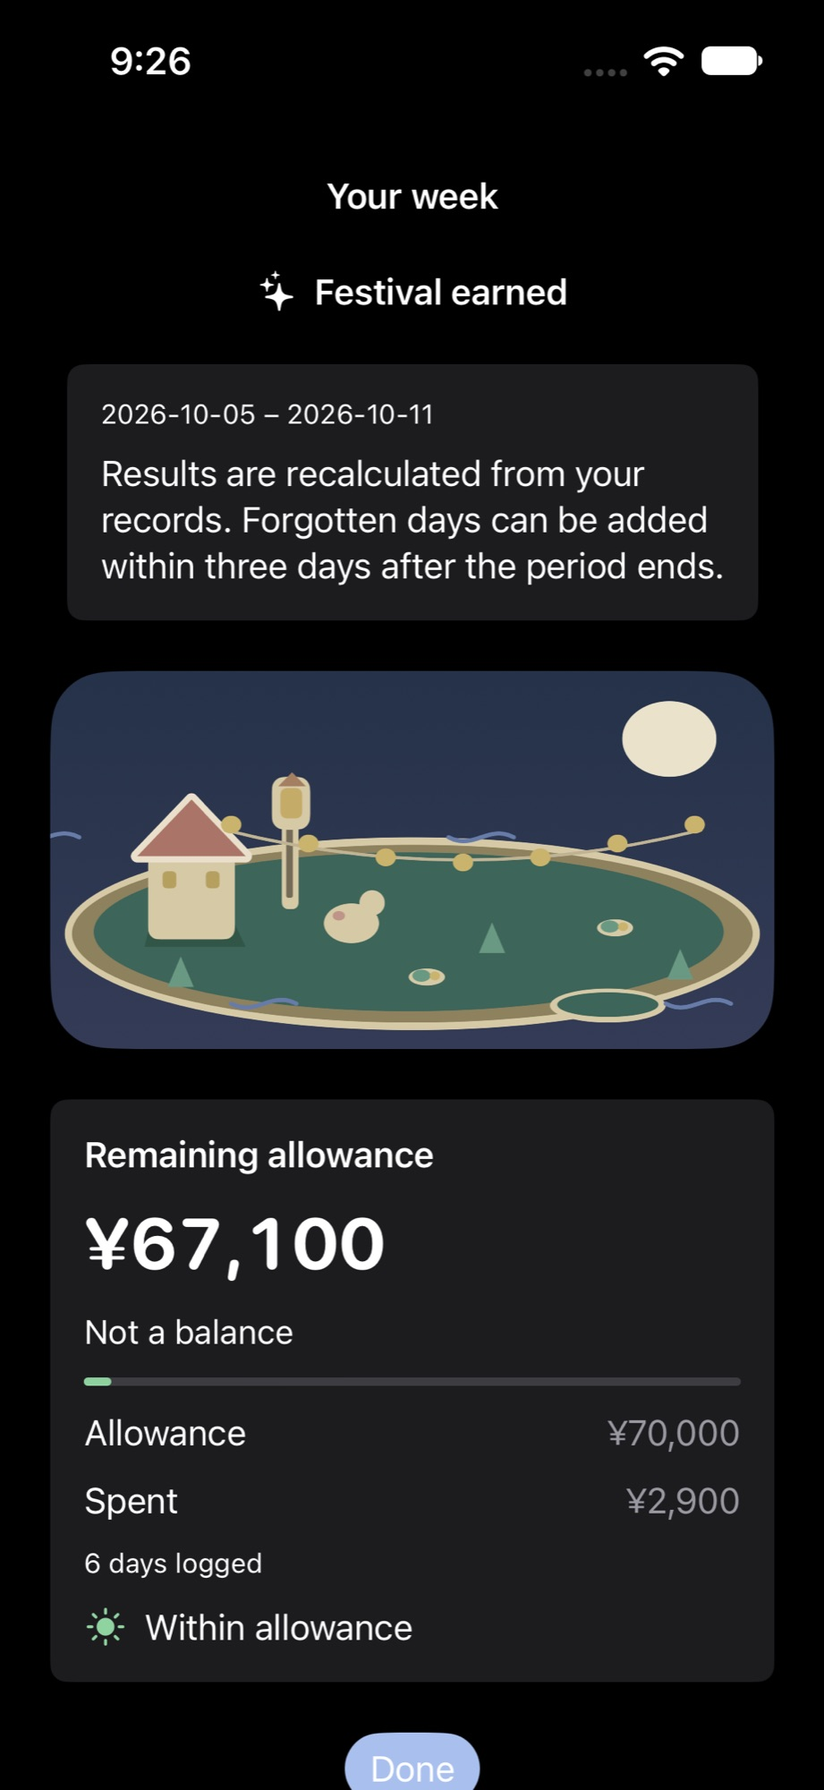
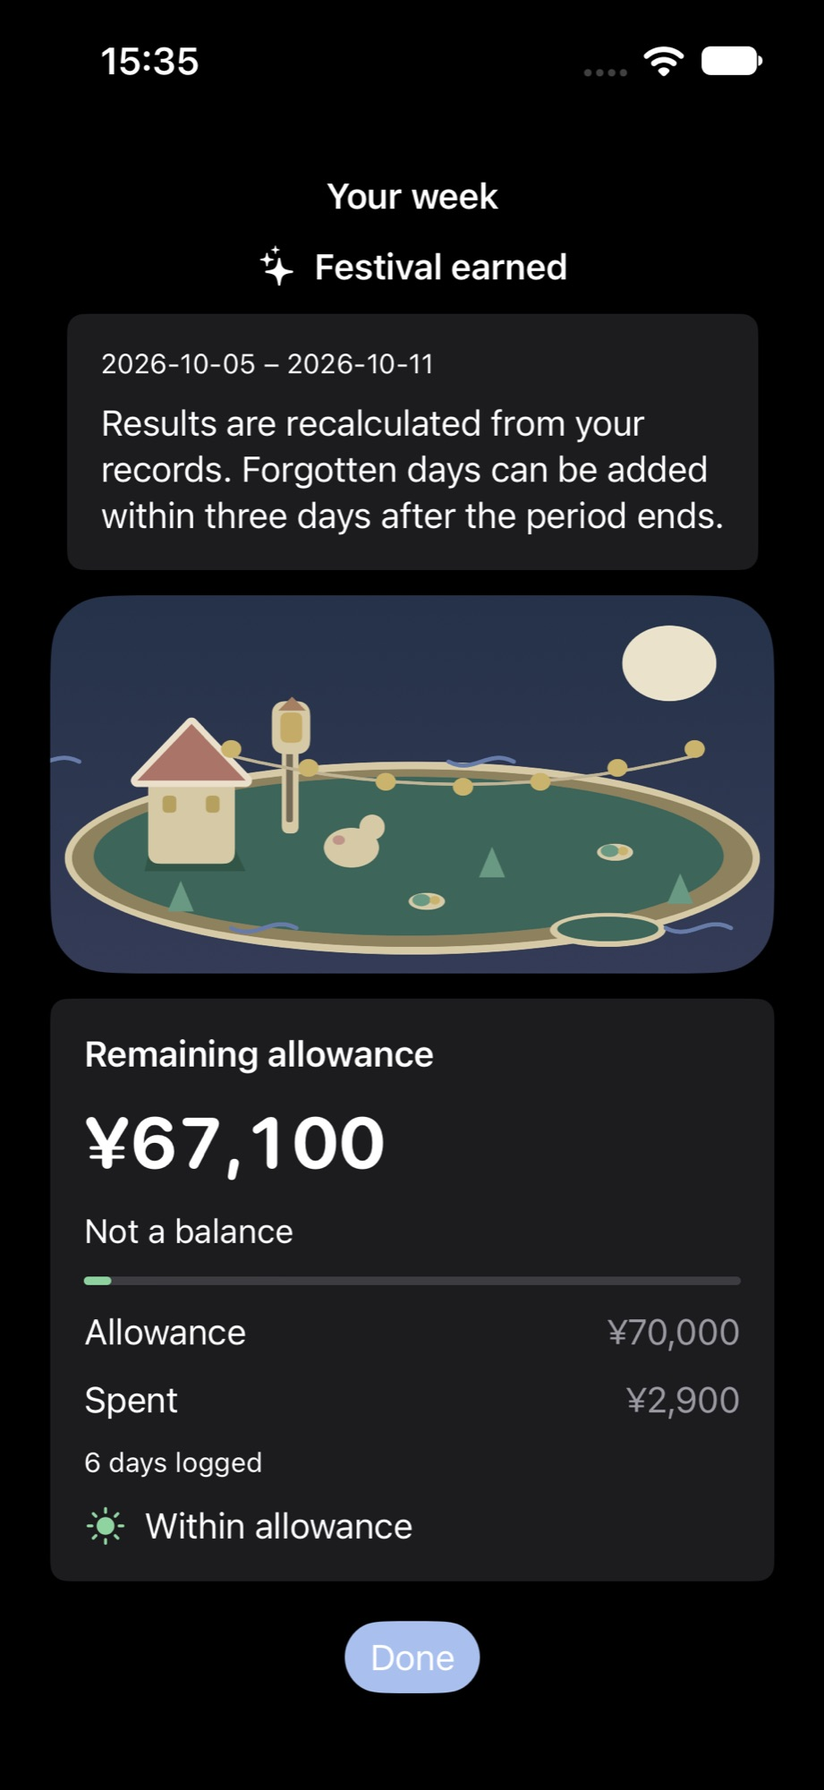
WEALTHY-C2B1-FIXED-CALENDAR: round 6 (DONE) - Result Done button inside safe area
Done on the Result screen moves into a bottom safeAreaInset with tighter
content spacing; it no longer extends under the home indicator on iPhone
15 Pro (bottom 859 -> 806 pt). New testResultDoneInsideSafeArea fails 3/3
before the fix and, with testResultAccessibilityAudit, passes 3/3 on both
simulators at default and AX3 after it. Full suites: 62/62 on iPhone 15 Pro
and iPhone 17 Pro. Refreshed the 12 Result screenshots.

diff --git a/WealthyUITests/WealthyUITests.swift b/WealthyUITests/WealthyUITests.swift
@@ -203,8 +203,8 @@ final class Cycle2aUITests: XCTestCase {
         }
     }
     @MainActor
-    func audit(_ screen: String) throws {
-            app.launchArguments = ["--cycle2a-test", "--cycle2a-seed", "-v4.language", "en", "--screen", screen]
+    func audit(_ screen: String, flags: [String] = []) throws {
+            app.launchArguments = ["--cycle2a-test", "--cycle2a-seed", "-v4.language", "en", "--screen", screen] + flags
             launchApp()
             XCTAssertTrue(app.staticTexts.firstMatch.waitForExistence(timeout: 15))
             if screen == "result" {
@@ -246,7 +246,30 @@ final class Cycle2aUITests: XCTestCase {
     @MainActor
     func testInfoAccessibilityAudit() throws { try audit("info") }
     @MainActor
-    func testResultAccessibilityAudit() throws { try audit("result") }
+    func testResultAccessibilityAudit() throws {
+        try audit("result")
+        try audit("result", flags: ["--ax3"])
+    }
+    @MainActor
+    func testResultDoneInsideSafeArea() throws {
+        // Both supported iPhone Pro simulators have a 34-point bottom safe area.
+        let bottomSafeArea: CGFloat = 34
+        for flags in [[], ["--ax3"]] {
+            app.launchArguments = ["--cycle2a-test", "--cycle2a-seed", "-v4.language", "en", "--screen", "result"] + flags
+            launchApp()
+            let done = app.buttons["Done"].firstMatch
+            XCTAssertTrue(done.waitForExistence(timeout: 15), app.debugDescription)
+            for _ in 0..<8 { if done.isHittable { break }; app.swipeUp() }
+            let frame = done.frame
+            let window = app.windows.firstMatch.frame
+            let details = "size=\(flags.isEmpty ? "default" : "AX3") button=\(frame) window=\(window) safeBottom=\(window.maxY - bottomSafeArea) hittable=\(done.isHittable)"
+            print("RESULT_DONE_FRAME \(details)")
+            XCTAssertTrue(done.isHittable, details)
+            XCTAssertTrue(window.contains(frame), details)
+            XCTAssertLessThanOrEqual(frame.maxY, window.maxY - bottomSafeArea, details)
+            app.terminate()
+        }
+    }
     @MainActor
     func testEntryAccessibilityAudit() throws { try audit("edit") }
 

diff --git a/Wealthy/Wealthy/HomeInfo.swift b/Wealthy/Wealthy/HomeInfo.swift
@@ -235,7 +235,7 @@ struct ResultView: View {
         return try? LedgerQueries.loggedDayRequirement(in: status.period)
     }
     var body: some View {
-        ScrollView { VStack(spacing: 24) {
+        ScrollView { VStack(spacing: 12) {
             Text(session.t(isMonth ? "monthResultTitle" : "weekResultTitle")).font(.headline)
             if isMonth {
                 Text(session.t(monthHeadlineKey)).font(.title2.weight(.semibold)).multilineTextAlignment(.center).foregroundStyle(.primary)
@@ -265,8 +265,11 @@ struct ResultView: View {
             }
             IslandScene(growth: resultGrowth, festivals: isMonth ? monthAreas : status.isRewardEligible ? 1 : 0, dusk: status.isOver).frame(height: 180).accessibilityHidden(true)
             AllowanceSummary(title: "remainingAllowance", status: status)
-            Button(session.t("done")) { dismiss() }.buttonStyle(.borderedProminent)
         }.padding(24) }.scrollEdgeEffectHidden(for: .bottom).accessibilityIdentifier("resultSheet")
+            .safeAreaInset(edge: .bottom) {
+                Button(session.t("done")) { dismiss() }.buttonStyle(.borderedProminent)
+                    .padding(.vertical, 12).frame(maxWidth: .infinity).background(.background)
+            }
     }
     private var monthHeadlineKey: String {
         switch outcome {

diff --git a/.ai/LAST_REPORT.md b/.ai/LAST_REPORT.md
@@ -1,75 +1,62 @@
-# Cycle 2b.1 Round 5 Report
+# Cycle 2b.1 Round 6 Report
 
 Task ID: WEALTHY-C2B1-FIXED-CALENDAR
-Status: PARTIAL
+Status: DONE
 
-Starting HEAD: `c27d7342428eae126771687cf9c3ad0a589a02fb`; branch: `codex/wealthy-c2b1-fixed-calendar`. Host: macOS 27.2, Xcode 27.2 (27B52); both simulators use iOS 27.0. The pre-existing changes to `.ai/CURRENT_TASK.md`, three `.DS_Store` files and an untracked design PDF were preserved. `5db23f0` is an ancestor of HEAD.
+Starting HEAD: `9ea1e8dd0df402a8a94f84b80f41bc9a2962a976`; branch: `codex/wealthy-c2b1-fixed-calendar`. Host: macOS 27.2, Xcode 27.2 (27B52), iOS 27.0 simulators. The existing changes to `.ai/CURRENT_TASK.md`, three `.DS_Store` files and the untracked design PDF were preserved. `5db23f0` is an ancestor of HEAD.
 
 ## Changed files
 
-- `Wealthy/Wealthy/LedgerRoot.swift` — hides the target-step island with an opacity transition while the amount is focused; keeps the title, step count and bottom bar.
-- `Wealthy/Wealthy/MoneyInputField.swift` — accepts an optional external focus binding; other callers retain the internal focus state.
-- `Verification/Cycle2bEvidence/INDEX.md`
-- `Verification/Cycle2bEvidence/iphone15pro-onboarding-language-light.jpg`
-- `Verification/Cycle2bEvidence/iphone15pro-onboarding-language-dark.jpg`
-- `Verification/Cycle2bEvidence/iphone15pro-onboarding-currency-light.jpg`
-- `Verification/Cycle2bEvidence/iphone15pro-onboarding-currency-dark.jpg`
-- `Verification/Cycle2bEvidence/iphone15pro-onboarding-target-light.jpg`
-- `Verification/Cycle2bEvidence/iphone15pro-onboarding-target-dark.jpg`
-- `Verification/Cycle2bEvidence/iphone15pro-onboarding-child-light.jpg`
-- `Verification/Cycle2bEvidence/iphone15pro-onboarding-child-dark.jpg`
-- `Verification/Cycle2bEvidence/iphone17pro-onboarding-language-light.jpg`
-- `Verification/Cycle2bEvidence/iphone17pro-onboarding-language-dark.jpg`
-- `Verification/Cycle2bEvidence/iphone17pro-onboarding-currency-light.jpg`
-- `Verification/Cycle2bEvidence/iphone17pro-onboarding-currency-dark.jpg`
-- `Verification/Cycle2bEvidence/iphone17pro-onboarding-target-light.jpg`
-- `Verification/Cycle2bEvidence/iphone17pro-onboarding-target-dark.jpg`
-- `Verification/Cycle2bEvidence/iphone17pro-onboarding-child-light.jpg`
-- `Verification/Cycle2bEvidence/iphone17pro-onboarding-child-dark.jpg`
+- `Wealthy/Wealthy/HomeInfo.swift`
+- `WealthyUITests/WealthyUITests.swift`
+- `Verification/Cycle2aEvidence/native/INDEX.md`
+- `Verification/Cycle2aEvidence/native/native-result-month-achieved-dark.jpg`
+- `Verification/Cycle2aEvidence/native/native-result-month-achieved-light.jpg`
+- `Verification/Cycle2aEvidence/native/native-result-month-few-dark.jpg`
+- `Verification/Cycle2aEvidence/native/native-result-month-few-light.jpg`
+- `Verification/Cycle2aEvidence/native/native-result-month-over-dark.jpg`
+- `Verification/Cycle2aEvidence/native/native-result-month-over-light.jpg`
+- `Verification/Cycle2aEvidence/native/native-result-week-achieved-dark.jpg`
+- `Verification/Cycle2aEvidence/native/native-result-week-achieved-light.jpg`
+- `Verification/Cycle2aEvidence/native/native-result-week-few-dark.jpg`
+- `Verification/Cycle2aEvidence/native/native-result-week-few-light.jpg`
+- `Verification/Cycle2aEvidence/native/native-result-week-over-dark.jpg`
+- `Verification/Cycle2aEvidence/native/native-result-week-over-light.jpg`
 - `.ai/LAST_REPORT.md`
-
-A temporary `WealthyUITests/Round5FrameDiagnostics.swift` was created to log frames and removed after both diagnostic runs. `testOnboardingAmountVisibleWithKeyboard` remains exactly as committed.
 
 ## Requirements
 
-1. **Focus-dependent island and keyboard acceptance — PASS.** The selected fix uses the existing bottom `safeAreaInset`, `@FocusState`, and a standard opacity transition. No additional content margins or scroll action were needed. `testOnboardingAmountVisibleWithKeyboard` passed on both simulators at default and AX3 sizes, both targeted and in the full suites. It checks field and Next hittability, the typed value, keyboard presence, and field position above the padded bar and keyboard. `testPersistedOnboardingRelaunch` also passed on both. The four target screenshots visibly show `40000` and the open keyboard. When focus ends the conditional restores the island; restoration on the same target step was not separately observed.
+1. **Before fix — reproduced.** `testResultDoneInsideSafeArea` ran three times on iPhone 15 Pro. Each run: default FAIL, Done `(164.33, 824.67, 64.33, 34.33)`, window `(0, 0, 393, 852)`, safe-area top `818`, hittable true but bottom `859`; AX3 PASS, Done `(132.67, 732, 127.67, 62)`, hittable true. The test checks containment and a 34-point bottom safe area, which applies to the two specified simulators. Frames are in points.
+2. **Layout and targeted tests — PASS.** Done uses a bottom `safeAreaInset` with standard components; content spacing is 12 points. On the first fix, the 17 Pro audit failed 3/3 at default size for `Within allowance`, `(68.67, 767.17, 128, 20.33)`: the screenshot shows that text partly clipped at the fixed button region. Reduced Result spacing, then reran both tests 3 times on both simulators. On each simulator each audit invocation checks default and AX3 with the existing audit types; no audit exception was added. Final targeted runs passed 3/3 for both tests on both simulators at both sizes. All Done frames were hittable and identical across the three iterations:
 
-   Frames below are points from separate temporary diagnostic UI tests after the first and only Round 5 fix. Bar top uses the committed acceptance test's formula. `field` and `keyboard` are `(x, y, width, height)`.
+   | Simulator | Size | Done frame | Window | Bottom safe-area top |
+   | --- | --- | --- | --- | --- |
+   | iPhone 15 Pro | default | (164.33, 771.67, 64.33, 34.33) | (0, 0, 393, 852) | 818 |
+   | iPhone 15 Pro | AX3 | (132.67, 744, 127.67, 62) | (0, 0, 393, 852) | 818 |
+   | iPhone 17 Pro | default | (169, 793.67, 64.33, 34.33) | (0, 0, 402, 874) | 840 |
+   | iPhone 17 Pro | AX3 | (137.33, 766, 127.67, 62) | (0, 0, 402, 874) | 840 |
 
-   | Simulator / size | Field | Bar top | Next | Keyboard |
-   | --- | --- | ---: | --- | --- |
-   | 15 Pro default | (32, 309.33, 329, 42.33) | 474 | (317.33, 495, 59.67, 34) | (0, 567, 393, 227) |
-   | 15 Pro AX3 | (32, 384, 329, 64) | 456 | (260.67, 472, 116.33, 62) | (0, 567, 393, 227) |
-   | 17 Pro default | (32, 312.33, 338, 42.33) | 496.17 | (326.33, 517, 59.67, 34.33) | (0, 589, 402, 227) |
-   | 17 Pro AX3 | (32, 406, 338, 64) | 478 | (269.67, 494, 116.33, 62) | (0, 589, 402, 227) |
-
-   Before the fix, the Round 4 final 15 Pro default acceptance test recorded field `(32, 519.33, 329, 42.33)` and bar top `474`; the other pre-fix frames were not recorded. The designer's explanation for the failed scroll attempts remains a hypothesis, not an established root cause.
-
-2. **Onboarding screenshots — PASS.** The 16 light/dark images for language, currency, target and child were exported from `testNativeOnboardingEvidenceLightAndDark` in the full suites. All four target images were visually inspected and show the synthetic `40000` above the bar and keyboard. `sips` converted them to JPEG quality 80, at 921 × 2000 (15 Pro) or 920 × 2000 (17 Pro), all 93,003–137,122 bytes. See `Verification/Cycle2bEvidence/INDEX.md`.
-
-3. **Full UI suites — PARTIAL.** 15 Pro: 61 tests, 1 failure; 17 Pro: 61 tests, 0 failures. On 15 Pro `Cycle2aUITests.testResultAccessibilityAudit` failed at `WealthyUITests.swift:236`: `Contrast failed / Contrast failed for SwiftUI.AccessibilityNode`, label `Done`, identifier empty, frame `(164.33, 824.67, 64.33, 34.33)`. The same test passed on 17 Pro. This is a contrast issue on the existing result screen, outside the Round 5 change; no audit was weakened and it remains unresolved. The existing owner-approved narrow Dynamic Type SwiftUI-node exception remains in place, and no new exception was added. The full matrix and metric tests ran; simulator metric values were not judged as physical-device performance.
-
-4. **Required checks — PASS.** Core: 117 tests in 13 suites. Shell: 199 keys × four languages and font checks. Localization: 199 shipping keys × four languages and 2,420 archived checks. Both Release builds and device-app signature verification passed. Both builds warned that App Intents metadata extraction was skipped because AppIntents.framework is not linked. `git diff --check` passed after the report was written.
+3. **Screenshots — PASS.** Refreshed the 12 existing week/month Result images (three states in light/dark) from the 15 Pro full-suite `testNativeScreenEvidenceLightAndDark` attachments. All are 921 x 2000 JPEGs, 164,159–206,611 bytes; week achieved light and month over dark were visually inspected. Index updated. Synthetic data only.
+4. **Full suites — PASS.** 15 Pro: 62 tests, zero failures, 4213.004 seconds. 17 Pro: 62 tests, zero failures, 4249.823 seconds. The 17 Pro run started after the 15 Pro process exited. Both included the Result audit and safe-area test at default and AX3, the full matrices, and the metric tests. Simulator metrics were not judged against a physical-device target.
+5. **Required checks — PASS.** Core 117 tests / 13 suites; shell 199 keys x four languages plus font checks; localization 199 shipping keys x four languages and 2,420 archived checks. Simulator Release and signed generic iOS Release builds passed; signature verified. Both builds warned that App Intents metadata extraction was skipped because AppIntents.framework is not linked.
 
 ## Verification commands
 
-- `xcodebuild -project Wealthy/Wealthy.xcodeproj -scheme WealthyUITests -destination 'platform=iOS Simulator,id=870430A8-E557-4CED-8A8E-079801D804B9' -derivedDataPath /tmp/wealthy-c2b1-r5-derived15 -resultBundlePath /tmp/wealthy-c2b1-r5-target15.xcresult -parallel-testing-enabled NO -only-testing:WealthyUITests/Cycle2aUITests/testOnboardingAmountVisibleWithKeyboard test` — PASS; `/tmp/wealthy-c2b1-r5-target15.log`.
-- Same targeted command with destination `platform=iOS Simulator,id=DEA8D0DF-8BA2-4F70-B19C-BACAC400EAE0`, derived data `/tmp/wealthy-c2b1-r5-derived17`, result `/tmp/wealthy-c2b1-r5-target17.xcresult` — PASS; `/tmp/wealthy-c2b1-r5-target17.log`.
-- `xcodebuild -project Wealthy/Wealthy.xcodeproj -scheme WealthyUITests -destination 'platform=iOS Simulator,id=870430A8-E557-4CED-8A8E-079801D804B9' -derivedDataPath /tmp/wealthy-c2b1-r5-derived15 -resultBundlePath /tmp/wealthy-c2b1-r5-full15.xcresult -parallel-testing-enabled NO test` — FAIL, 61 tests, 1 failure; `/tmp/wealthy-c2b1-r5-full15.log`.
-- Same full-suite command with destination `platform=iOS Simulator,id=DEA8D0DF-8BA2-4F70-B19C-BACAC400EAE0`, derived data `/tmp/wealthy-c2b1-r5-derived17`, result `/tmp/wealthy-c2b1-r5-full17.xcresult` — PASS, 61 tests; `/tmp/wealthy-c2b1-r5-full17.log`.
-- Temporary diagnostic: `xcodebuild -project Wealthy/Wealthy.xcodeproj -scheme WealthyUITests -destination 'platform=iOS Simulator,id=870430A8-E557-4CED-8A8E-079801D804B9' -derivedDataPath /tmp/wealthy-c2b1-r5-diagnostic15 -resultBundlePath /tmp/wealthy-c2b1-r5-frames15.xcresult -parallel-testing-enabled NO -only-testing:WealthyUITests/Round5FrameDiagnostics/testFrames test` — PASS; `/tmp/wealthy-c2b1-r5-frames15.log`. Same command with 17 Pro ID `DEA8D0DF-8BA2-4F70-B19C-BACAC400EAE0`, paths `diagnostic17` and `frames17.xcresult` — PASS; `/tmp/wealthy-c2b1-r5-frames17.log`.
-- `sh Verification/verify_core.sh` — initial sandboxed invocation FAIL: SwiftPM `sandbox-exec: sandbox_apply: Operation not permitted`; authorized rerun PASS, 117 tests; `/tmp/wealthy-c2b1-r5-core-authorized.log`.
-- `PYTHONPATH=/Users/harrison/Library/Python/3.14/lib/python/site-packages python3 Verification/verify_shell.py` — PASS; `/tmp/wealthy-c2b1-r5-shell.log`.
-- `sh Verification/verify_localization.sh` — PASS; `/tmp/wealthy-c2b1-r5-localization.log`.
-- `xcodebuild -project Wealthy/Wealthy.xcodeproj -scheme WealthyUITests -configuration Release -destination 'generic/platform=iOS Simulator' -derivedDataPath /tmp/wealthy-c2b1-r5-release-sim build` — PASS; `/tmp/wealthy-c2b1-r5-release-sim.log`.
-- `xcodebuild -project Wealthy/Wealthy.xcodeproj -scheme WealthyUITests -configuration Release -destination 'generic/platform=iOS' -derivedDataPath /tmp/wealthy-c2b1-r5-release-device -allowProvisioningUpdates build` — PASS; `/tmp/wealthy-c2b1-r5-release-device.log`.
-- `codesign --verify --deep --strict /tmp/wealthy-c2b1-r5-release-device/Build/Products/Release-iphoneos/Wealthy.app` — PASS.
-- `xcrun xcresulttool export attachments --path /tmp/wealthy-c2b1-r5-full15.xcresult --output-path /tmp/wealthy-c2b1-r5-attachments15 --test-id 'Cycle2aUITests/testNativeOnboardingEvidenceLightAndDark()'` — PASS; repeated for `full17.xcresult` and `attachments17` — PASS. `sips -Z 2000 -s format jpeg -s formatOptions 80 <source> --out <destination>` produced each of the 16 images; `sips -g pixelWidth -g pixelHeight` verified dimensions.
+- `xcodebuild -project Wealthy/Wealthy.xcodeproj -scheme WealthyUITests -destination 'platform=iOS Simulator,id=870430A8-E557-4CED-8A8E-079801D804B9' -derivedDataPath /tmp/wealthy-c2b1-r6-derived15 -resultBundlePath /tmp/wealthy-c2b1-r6-before.xcresult -parallel-testing-enabled NO -test-iterations 3 -only-testing:WealthyUITests/Cycle2aUITests/testResultDoneInsideSafeArea test` — FAIL as expected, default 3/3, AX3 pass 3/3; `/tmp/wealthy-c2b1-r6-before.log`.
+- `xcodebuild -project Wealthy/Wealthy.xcodeproj -scheme WealthyUITests -destination 'platform=iOS Simulator,id=870430A8-E557-4CED-8A8E-079801D804B9' -derivedDataPath /tmp/wealthy-c2b1-r6-derived15 -resultBundlePath /tmp/wealthy-c2b1-r6-finaltarget15.xcresult -parallel-testing-enabled NO -test-iterations 3 -only-testing:WealthyUITests/Cycle2aUITests/testResultDoneInsideSafeArea -only-testing:WealthyUITests/Cycle2aUITests/testResultAccessibilityAudit test` — PASS, six test invocations; `/tmp/wealthy-c2b1-r6-finaltarget15.log`. Repeated with destination `DEA8D0DF-8BA2-4F70-B19C-BACAC400EAE0`, derived data `derived17`, result `finaltarget17.xcresult` — PASS; `/tmp/wealthy-c2b1-r6-finaltarget17.log`.
+- First fix targeted run with the same command on 17 Pro and result `target17.xcresult` — FAIL, audit 3/3, Done assertion 3/3 PASS; `/tmp/wealthy-c2b1-r6-target17.log`. 15 Pro `target15.xcresult` — PASS.
+- `xcodebuild -project Wealthy/Wealthy.xcodeproj -scheme WealthyUITests -destination 'platform=iOS Simulator,id=870430A8-E557-4CED-8A8E-079801D804B9' -derivedDataPath /tmp/wealthy-c2b1-r6-derived15 -resultBundlePath /tmp/wealthy-c2b1-r6-full15.xcresult -parallel-testing-enabled NO test` — PASS, 62 tests, zero failures; `/tmp/wealthy-c2b1-r6-full15.log`. The same command with simulator ID `DEA8D0DF-8BA2-4F70-B19C-BACAC400EAE0` and paths `derived17` / `full17.xcresult` — PASS, 62 tests, zero failures; `/tmp/wealthy-c2b1-r6-full17.log`.
+- `xcrun xcresulttool export attachments --path /tmp/wealthy-c2b1-r6-full15.xcresult --output-path /tmp/wealthy-c2b1-r6-final-evidence15 --test-id 'Cycle2aUITests/testNativeScreenEvidenceLightAndDark()'` — PASS; exported 12 Result images with `sips -Z 2000 -s format jpeg -s formatOptions 80`, and checked dimensions with `sips -g pixelWidth -g pixelHeight`. An earlier export attempt while the suite was running failed because the result bundle Info.plist had not yet been finalized.
+- `sh Verification/verify_core.sh` — PASS; `/tmp/wealthy-c2b1-r6-core.log`.
+- `PYTHONPATH=/Users/harrison/Library/Python/3.14/lib/python/site-packages python3 Verification/verify_shell.py` — PASS; `/tmp/wealthy-c2b1-r6-shell.log`.
+- `sh Verification/verify_localization.sh` — PASS; `/tmp/wealthy-c2b1-r6-localization.log`.
+- `xcodebuild -project Wealthy/Wealthy.xcodeproj -scheme WealthyUITests -configuration Release -destination 'generic/platform=iOS Simulator' -derivedDataPath /tmp/wealthy-c2b1-r6-release-sim build` — PASS; `/tmp/wealthy-c2b1-r6-final-release-sim.log`.
+- `xcodebuild -project Wealthy/Wealthy.xcodeproj -scheme WealthyUITests -configuration Release -destination 'generic/platform=iOS' -derivedDataPath /tmp/wealthy-c2b1-r6-release-device -allowProvisioningUpdates build` — PASS; `/tmp/wealthy-c2b1-r6-final-release-device.log`.
+- `codesign --verify --deep --strict /tmp/wealthy-c2b1-r6-release-device/Build/Products/Release-iphoneos/Wealthy.app` — PASS.
 - `git diff --check` — PASS.
 
 ## Not done / unverified
 
-- The 15 Pro result-screen contrast finding requires designer/Claude review; reproduction is the failing full-suite audit and log above. Whether it is intermittent or pre-existing was not determined in this round.
-- No physical-device installation, physical-device UI, VoiceOver, or performance assessment was performed in Round 5. The physical-device item from the original cycle was not revalidated.
-- No design-board comparison was performed in this narrow round; prior cycle findings were not revalidated.
+- The safe-area test uses a 34-point bottom inset for the two specified iPhone Pro simulators; it does not infer the inset for other device models.
+- Physical-device install, UI, VoiceOver and performance were not assessed in this round.
 - No staging, commit, push, merge, branch switch, or unrelated cleanup was performed. The operator owns Git.

diff --git a/.ai/CURRENT_TASK.md b/.ai/CURRENT_TASK.md
@@ -134,3 +134,15 @@ Same Task ID, branch and PR #10. Read `.ai/LAST_REPORT.md` first. Keep `testOnbo
 3. Full `WealthyUITests` once per simulator, `-parallel-testing-enabled NO`; required checks (`verify_core.sh` 117, `verify_shell.py` with the PYTHONPATH that provides fontTools, `verify_localization.sh`, `git diff --check`, Simulator Release and signed generic iOS builds). Keep logs under `/tmp/wealthy-c2b1-r5*`.
 
 Acceptance for Round 5: `testOnboardingAmountVisibleWithKeyboard` passes on both simulators at default size and AX3; full suites zero failures on both; required checks pass; screenshots updated. Then `Status: DONE`; otherwise `PARTIAL` with the exact frames and failures.
+
+## Round 6 (designer, 2026-11-07, after PR #10 head 9ea1e8d)
+Same Task ID, branch and PR #10. Read `.ai/LAST_REPORT.md` first. One item only; do not change anything else that already passes.
+
+**Finding.** On iPhone 15 Pro, `testResultAccessibilityAudit` failed with "Contrast failed for SwiftUI.AccessibilityNode" on the Result screen "Done" button, frame (164.33, 824.67, 64.33, 34.33). The screen is 852 pt tall, so the button's bottom edge (859 pt) is outside the screen and under the home indicator. The designer reads this as a layout problem (the button is not kept inside the safe area), not only a flaky audit. Not verified.
+
+1. **Test first.** Add an assertion (in `testResultAccessibilityAudit` or a new Result-screen test) that the Done button is hittable and its whole frame lies inside the window and above the bottom safe-area inset (home indicator), at the default size and at AX3 (`-UIPreferredContentSizeCategoryName UICTContentSizeCategoryAccessibilityXL`). Run it 3 times on iPhone 15 Pro before the fix and report each result and frame.
+2. **Fix** with standard components only, no wording or flow change: keep the Done button inside the safe area (for example, put the Result content in a `ScrollView` and the Done button in `safeAreaInset(edge: .bottom)` or in the toolbar). Then run the new assertion and `testResultAccessibilityAudit` 3 times each on both simulators (default and AX3) and report. Do not add any audit exception.
+3. Re-capture Result-screen screenshots only if they exist in `Verification/Cycle2bEvidence/` or `Cycle2aEvidence/` and changed.
+4. Full `WealthyUITests` once per simulator, run one after the other (not at the same time), `-parallel-testing-enabled NO`; required checks (`verify_core.sh` 117, `verify_shell.py` with the fontTools PYTHONPATH, `verify_localization.sh`, `git diff --check`, Simulator Release and signed generic iOS builds). Keep logs under `/tmp/wealthy-c2b1-r6*`.
+
+Acceptance for Round 6: the new assertion and `testResultAccessibilityAudit` pass 3/3 on both simulators at default and AX3; full suites zero failures on both; required checks pass. Then `Status: DONE`; otherwise `PARTIAL` with exact frames and failures.

diff --git a/Verification/Cycle2aEvidence/native/INDEX.md b/Verification/Cycle2aEvidence/native/INDEX.md
@@ -2,6 +2,8 @@
 
 Captured from the iPhone 15 Pro Simulator (iOS 27.0) using `WealthyUITests` with synthetic seeded data. JPEG quality 80; long edge capped at 2000 px. Current set is 45 images / about 6 MB. Screens are captured directly from the running app, without design-board comparisons.
 
+The 12 week and month Result images were refreshed in Cycle 2b.1 Round 6 after the Done button moved into the bottom safe area. They were exported from `testNativeScreenEvidenceLightAndDark` in `/tmp/wealthy-c2b1-r6-full15.xcresult`.
+
 | Screen | Light | Dark |
 |---|---|---|
 | Voice | [native-voice-light.jpg](native-voice-light.jpg) | [native-voice-dark.jpg](native-voice-dark.jpg) |
